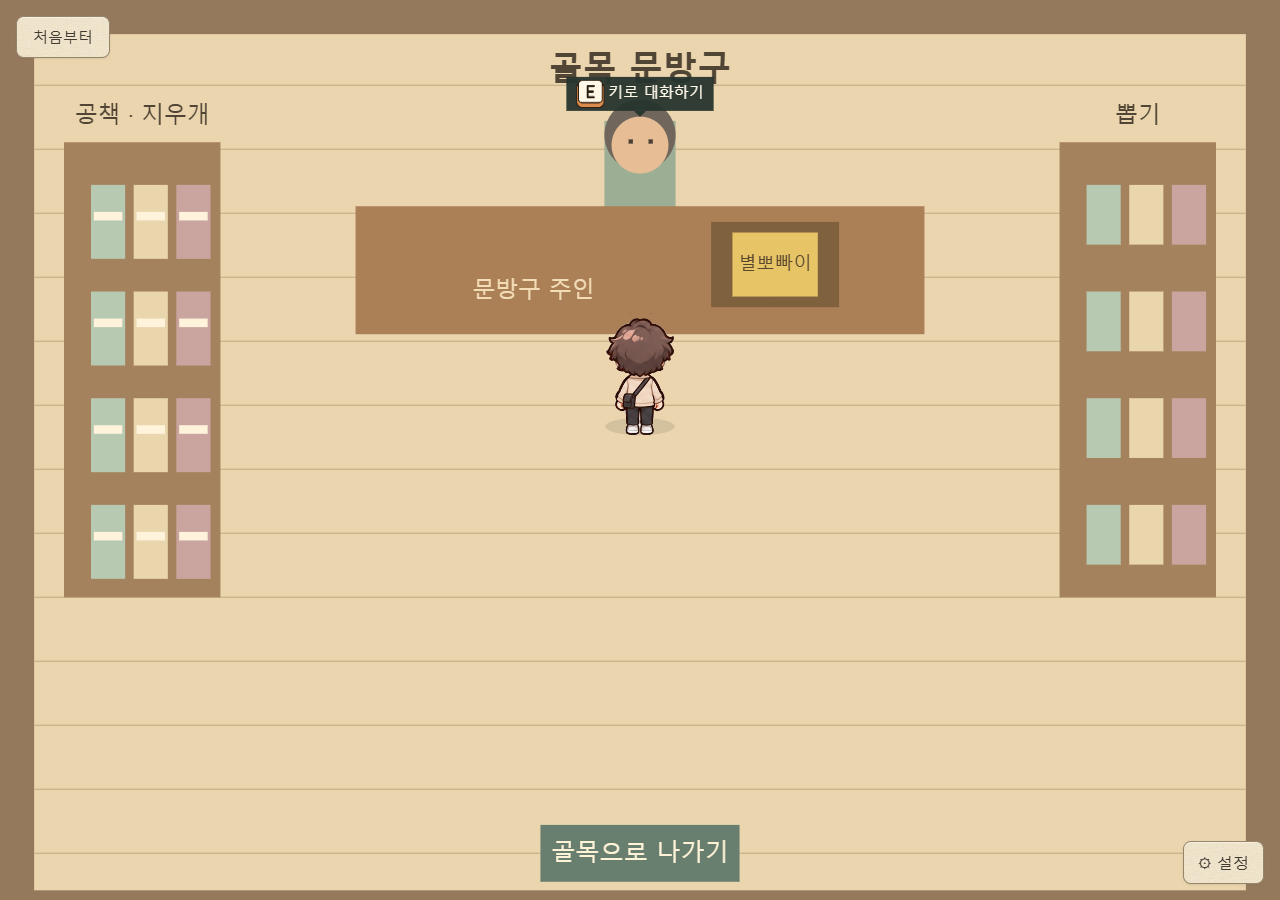
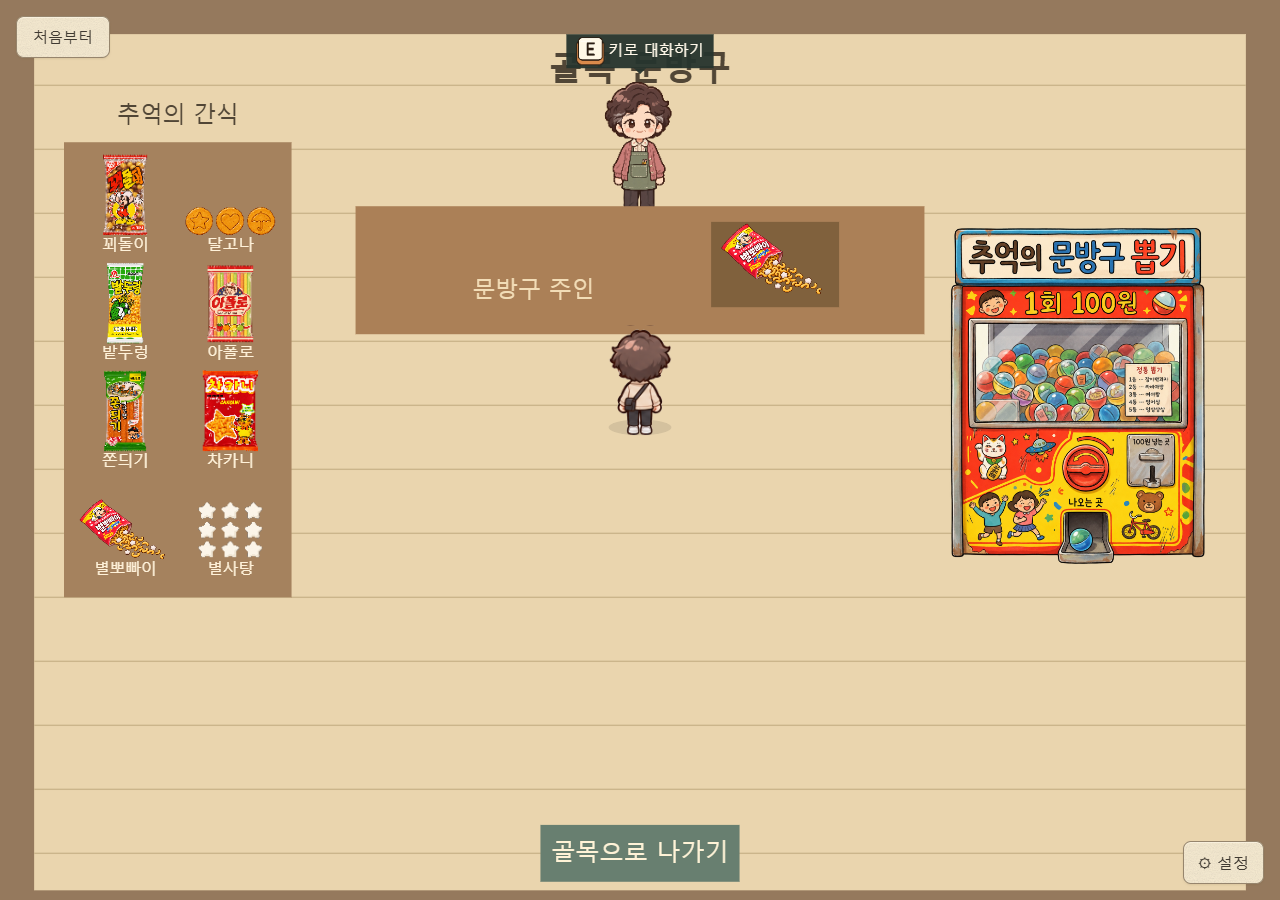
문방구 뽑기와 진열

diff --git a/easter-egg.js b/easter-egg.js
@@ -45,6 +45,12 @@ function updateEasterEgg() {
 function handleEasterClick(x, y) {
   if (!inEasterShop()) return false;
   const d = EASTER_EGG_DATA;
+  const machine = d.shelves.find(shelf => shelf.kind === "draw");
+  if (machine && insideRect(x, y, machine, d.clickPadding)) {
+    if (!nearFortuneMachine()) showDoorMessage(d.text.tooFar);
+    else if (!isGameInputBlocked()) openInspection({ type: "fortune", name: FORTUNE_DATA.title, fortune: drawFortune() });
+    return true;
+  }
   const snack = insideRect(x, y, d.snack, d.clickPadding);
   if (!snack && !insideRect(x, y, d.counter) && !insideRect(x, y, d.owner, d.clickPadding)) return false;
   if (!nearEasterShop()) { showDoorMessage(d.text.tooFar); return true; }
@@ -71,12 +77,18 @@ function drawEasterInterior() {
   ctx.textAlign = "center";ctx.textBaseline = "middle";ctx.font = "bold 24px 'Malgun Gothic', sans-serif";
   ctx.fillStyle = "#514636";ctx.fillText(d.text.shop,room.width/2,50);
   for(const shelf of d.shelves) {
+    if (shelf.sprite && drawObjectSprite(shelf)) continue;
     rect(shelf,"#a5825e");
     ctx.fillStyle="#514636";ctx.font="16px 'Malgun Gothic', sans-serif";ctx.fillText(d.text[shelf.kind],shelf.x,shelf.y-shelf.height/2-18);
-    for(let row=0;row<4;row++) for(let col=0;col<3;col++) {
-      const x=shelf.x-36+col*30, y=shelf.y-130+row*75;
-      ctx.fillStyle=["#b8c9b2","#ead6ad","#caa5a0"][col];ctx.fillRect(x,y,24,shelf.kind==="draw"?42:52);
-      if(shelf.kind==="stationery") {ctx.fillStyle="#fff3db";ctx.fillRect(x+2,y+19,20,6);}
+    if (shelf.kind === "stationery") {
+      const layout = d.shelfDisplay;
+      d.shelfSnacks.forEach((snack, index) => {
+        const x = shelf.x + (index % layout.columns - (layout.columns - 1) / 2) * layout.cellWidth;
+        const y = shelf.y - shelf.height / 2 + 37 + Math.floor(index / layout.columns) * layout.rowHeight;
+        drawObjectSprite({ x, y, width: layout.width, height: layout.height, sprite: { src: snack.src } });
+        ctx.fillStyle = "#fff2da"; ctx.font = "11px 'Malgun Gothic', sans-serif";
+        ctx.fillText(snack.name, x, y + layout.height / 2 + 6);
+      });
     }
   }
   // 주인 이미지를 판매대 뒤에 그린다. 불러오지 못했을 때만 임시 도형을 쓴다.
@@ -97,6 +109,41 @@ function drawEasterInterior() {
   ctx.fillText(d.text.exit,d.interior.exit.x,d.interior.exit.y);
   ctx.restore();
 }
+
+function nearFortuneMachine() {
+  if (!inEasterShop()) return false;
+  const r = EASTER_EGG_DATA.shelves.find(shelf => shelf.kind === "draw");
+  return !!r && Math.hypot(Math.max(0, Math.abs(player.x - r.x) - r.width / 2),
+    Math.max(0, Math.abs(player.y + player.footOffset - r.y) - r.height / 2)) <= FORTUNE_DATA.interactDistance;
+}
+
+function drawFortune() {
+  return FORTUNE_DATA.entries[Math.floor(Math.random() * FORTUNE_DATA.entries.length)];
+}
+
+function renderFortunePanel() {
+  const panel = document.getElementById("fortune-panel");
+  panel.hidden = inspectionUiState.mode !== "fortune";
+  if (panel.hidden) return;
+  const fortune = inspectionUiState.object.fortune;
+  inspectionMessage.textContent = "";
+  document.getElementById("fortune-quote").textContent = `“${fortune.quote}”`;
+  document.getElementById("fortune-author").textContent = `— ${fortune.author}`;
+  document.querySelector("#fortune-again .fortune-crank-label").textContent = FORTUNE_DATA.again;
+}
+
+document.getElementById("fortune-again").addEventListener("click", () => {
+  if (inspectionUiState.mode !== "fortune" || settingsUi.open) return;
+  const grip = document.querySelector("#fortune-again .fortune-crank-grip");
+  // 연속으로 눌러도 회전 효과가 쌓이지 않도록 이전 효과를 끝낸다.
+  grip.getAnimations().forEach(animation => animation.cancel());
+  if (!window.matchMedia("(prefers-reduced-motion: reduce)").matches) {
+    grip.animate([{ transform: "rotate(0deg)" }, { transform: "rotate(360deg)" }],
+      { duration: FORTUNE_DATA.turnDurationMs, easing: "ease-in-out" });
+  }
+  inspectionUiState.object.fortune = drawFortune();
+  renderFortunePanel();
+});
 
 function renderEasterPanel() {
   const panel = document.getElementById("easter-snack-panel"), d = EASTER_EGG_DATA;

diff --git a/style.css b/style.css
@@ -196,3 +196,52 @@ dialog button, dialog input, dialog select { font-family: inherit; }
 .snack-star-shape { position: absolute; inset: 9px; background: #fff4c1; clip-path: polygon(50% 0, 63% 32%, 98% 35%, 73% 59%, 80% 96%, 50% 78%, 20% 96%, 27% 59%, 2% 35%, 37% 32%); }
 .snack-star-glow { position: absolute; inset: -12px; width: 72px; height: 72px; object-fit: contain; opacity: 0; pointer-events: none; }
 .snack-star:focus-visible { outline: 3px solid #45675c; outline-offset: 2px; }
+#fortune-panel { text-align: center; padding: 12px 0; }
+#fortune-quote { margin: 12px 0; padding: 24px; border: 1px solid #b9a279; border-radius: 8px; background: #fff7e6; font-size: 20px; line-height: 1.9; white-space: pre-line; word-break: keep-all; overflow-wrap: anywhere; }
+#fortune-author { text-align: right; margin: 16px 8px 24px; }
+#inspection-dialog #fortune-again { display: inline-flex; flex-direction: column; align-items: center; gap: 10px; padding: 8px 18px; border: 0; border-radius: 18px; background: transparent; box-shadow: none; color: #604a39; font: inherit; cursor: pointer; }
+.fortune-crank { position: relative; display: block; width: 88px; height: 88px; border: 4px solid #8c7860; border-radius: 50%; background: radial-gradient(circle at 35% 25%, #fff8df, #c5b899 65%, #9b8b70); box-shadow: inset 0 0 0 5px #f3e6c4, inset 0 0 0 7px #a59275, 0 4px 0 #77624c, 0 6px 10px #55402e30; }
+.fortune-crank::before { content: "↻"; position: absolute; top: 1px; left: 0; right: 0; font: bold 23px Georgia, serif; color: #80684d; }
+.fortune-crank-grip { position: absolute; inset: 0; }
+.fortune-crank-grip::before { content: ""; position: absolute; width: 66px; height: 23px; left: 50%; top: 50%; transform: translate(-50%, -50%) rotate(-25deg); border: 2px solid #754e39; border-radius: 9px; background: linear-gradient(#e1a27d, #ba7453 55%, #925539); box-shadow: inset 0 2px 1px #ffe4b6a6, 0 4px 3px #68513d55; }
+.fortune-crank-grip::after { content: ""; position: absolute; inset: 36px; border: 1px solid #806950; border-radius: 50%; background: radial-gradient(circle at 35% 25%, #fff3d3, #ae9874); }
+#fortune-again:hover .fortune-crank { filter: brightness(1.06); }
+.fortune-crank-label { font-size: 15px; }
+#fortune-again:focus-visible { outline: 3px solid #45675c; outline-offset: 3px; }
+
+/* 명언 창만 오래된 뽑기 캡슐과 안쪽 종이 쪽지처럼 표현한다. */
+#inspection-dialog[data-mode="fortune"] {
+  box-sizing: border-box;
+  width: min(960px, calc(100vw - 32px));
+  padding: 32px 44px;
+  border: 3px solid #8d7561;
+  border-radius: 100px;
+  background: radial-gradient(ellipse at 28% 0%, #ffffffa6, transparent 55%),
+    linear-gradient(to bottom, #dfebe2 0%, #b9cec2 49%, #8d7561 49%, #8d7561 50%, #cb8d74 50%, #b97560 100%);
+  box-shadow: inset 0 0 0 7px #fff5df45, inset 0 -12px 24px #754c3729, 0 16px 48px #17201766;
+}
+#inspection-dialog[data-mode="fortune"] #inspection-message { display: none; }
+#inspection-dialog[data-mode="fortune"] #fortune-panel {
+  margin-top: 24px;
+  padding: 0;
+}
+#inspection-dialog[data-mode="fortune"] .fortune-paper {
+  margin-bottom: 16px;
+  padding: 12px 28px;
+  border: 1px solid #bca17b;
+  border-radius: 5px;
+  background: linear-gradient(#fff8e6c9, #f5e6c9c9), var(--paper-noise);
+  box-shadow: 0 4px 12px #5a382d30, inset 0 0 24px #c5a26820;
+}
+#inspection-dialog[data-mode="fortune"] #fortune-quote {
+  padding: 8px 0;
+  border: 0;
+  background: transparent;
+  font-size: 22px;
+  line-height: 1.9;
+}
+@media (max-width: 640px) {
+  #inspection-dialog[data-mode="fortune"] { padding: 24px 18px; border-radius: 40px; }
+  #inspection-dialog[data-mode="fortune"] .fortune-paper { padding: 12px 16px; }
+  #inspection-dialog[data-mode="fortune"] #fortune-quote { font-size: 18px; }
+}

diff --git a/data/easter-egg.js b/data/easter-egg.js
@@ -14,8 +14,21 @@ const EASTER_EGG_DATA = {
   snack: { x: 545, y: 186, width: 60, height: 45,
     sprite: { src: "assets/item-star-snack.png", width: 78, height: 52 } },
   counter: { x: 450, y: 190, width: 400, height: 90 },
-  shelves: [{ x: 100, y: 260, width: 110, height: 320, kind: "stationery" },
-    { x: 800, y: 260, width: 110, height: 320, kind: "draw" }],
+  shelves: [{ x: 125, y: 260, width: 160, height: 320, kind: "stationery" },
+    { x: 760, y: 260, width: 210, height: 280, kind: "draw",
+      sprite: { src: "assets/stationery-capsule-machine.png" } }],
+  // 진열용 간식 그림. 획득 가능한 별뽀빠이는 기존 판매대에 따로 둔다.
+  shelfDisplay: { columns: 2, cellWidth: 74, rowHeight: 76, width: 66, height: 59 },
+  shelfSnacks: [
+    { name: "꾀돌이", src: "assets/snack-kkoedori.png" },
+    { name: "달고나", src: "assets/snack-dalgona.png" },
+    { name: "밭두렁", src: "assets/snack-corn.png" },
+    { name: "아폴로", src: "assets/snack-apollo.png" },
+    { name: "쫀듸기", src: "assets/snack-jjondigi.png" },
+    { name: "차카니", src: "assets/snack-chakani.png" },
+    { name: "별뽀빠이", src: "assets/item-star-snack.png" },
+    { name: "별사탕", src: "assets/snack-star-candy.png" },
+  ],
   interactDistance: 190, clickPadding: 12,
   // TODO: 봉지 안 배치는 백분율 좌표다. 최종 간식 그림으로 교체할 수 있다.
   crumbs: Array.from({ length: 54 }, (_, i) => ({ x: 5 + i % 9 * 10 + Math.sin(i * 3) * 2,
@@ -25,7 +38,7 @@ const EASTER_EGG_DATA = {
   sparkleMs: 1100, sparkleImage: "assets/guide-star.png",
   text: {
     shop: "골목 문방구", owner: "문방구 주인", snack: "별뽀빠이", draw: "뽑기",
-    stationery: "공책 · 지우개", exit: "골목으로 나가기", exitHint: "출입구까지 걸어가면 나갑니다.",
+    stationery: "추억의 간식", exit: "골목으로 나가기", exitHint: "출입구까지 걸어가면 나갑니다.",
     purpose: "골목 문방구에서 받은 기념품", star: "별사탕",
     dialogue: ["어머, 너 오랜만이다. 잘 지냈어?", "넌 이거 사면 꼭 별사탕부터 골라 먹었잖아.",
       "봉지 안에 별이 몇 개 들었나 한참 들여다보고.", "하나 가져가. 오늘은 별이 좀 많이 들었으려나."],

diff --git a/data/fortunes.js b/data/fortunes.js
@@ -1,0 +1,20 @@
+"use strict";
+
+// 문구와 출처 표기는 사용자가 제공한 목록을 따른다.
+const FORTUNE_DATA = {
+  title: "오늘의 한마디", again: "다시 뽑기",
+  // TODO: 뽑기 기계 조사 거리는 실내 픽셀 단위다.
+  interactDistance: 160,
+  turnDurationMs: 550,
+  entries: [
+    { id: "FORTUNE-01", quote: "매일 행복하진 않지만, 행복한 일은 매일 있어.", author: "곰돌이 푸" },
+    { id: "FORTUNE-02", quote: "넌 네가 믿는 것보다 더 용감하고,\n네가 보는 것보다 더 강하며,\n네가 생각하는 것보다 더 똑똑하단다.", author: "곰돌이 푸" },
+    { id: "FORTUNE-03", quote: "가장 중요한 것은 눈에 보이지 않아.\n마음으로 봐야 잘 보이거든.", author: "어린 왕자" },
+    { id: "FORTUNE-04", quote: "어른들은 누구나 처음엔 어린이였다.\n하지만 그것을 기억하는 어른은 별로 없다.", author: "어린 왕자" },
+    { id: "FORTUNE-05", quote: "강물은 서두르지 않아.\n언젠가는 도착할 거라는 걸 알거든.", author: "곰돌이 푸" },
+    { id: "FORTUNE-06", quote: "인생은 폭풍우가 지나가기를 기다리는 것이 아니라,\n빗속에서 춤추는 법을 배우는 것이다.", author: "스누피" },
+    { id: "FORTUNE-07", quote: "걱정한다고 해서 내일의 슬픔이 사라지는 건 아니야.\n오늘의 힘만 뺄 뿐이지.", author: "스누피" },
+    { id: "FORTUNE-08", quote: "헛된 일이란 건 정말로 없는 걸까?\n응, 헛된 일은 없어.\n그저 헛되다고 생각하는 것뿐이야.", author: "보노보노" },
+    { id: "FORTUNE-09", quote: "가끔은 아주 작은 것들이 네 마음속에서 가장 큰 자리를 차지하기도 해.", author: "피글렛" },
+  ],
+};

diff --git a/index.html b/index.html
@@ -16,6 +16,7 @@
     <script src="school.js" defer></script>
     <script src="data/items.js" defer></script>
     <script src="data/easter-egg.js" defer></script>
+    <script src="data/fortunes.js" defer></script>
     <script src="data/ordinary-items.js" defer></script>
     <script src="data/cabinet.js" defer></script>
     <script src="cabinet.js" defer></script>
@@ -138,6 +139,13 @@
         </div>
       </section>
       <div id="easter-snack-panel" hidden></div>
+      <section id="fortune-panel" hidden>
+        <div class="fortune-paper">
+          <blockquote id="fortune-quote"></blockquote>
+          <p id="fortune-author"></p>
+        </div>
+        <button id="fortune-again" type="button"><span class="fortune-crank" aria-hidden="true"><span class="fortune-crank-grip"></span></span><span class="fortune-crank-label"></span></button>
+      </section>
       <div id="playground-memo" hidden>
         <img id="home-memo-picture" alt="집의 잠긴 정문과 옆 골목의 쪽문 약도" />
       </div>

diff --git a/studio-ui.js b/studio-ui.js
@@ -133,6 +133,7 @@ function renderInspection() {
   renderCabinetPanel();
   renderDiaryPanel();
   if (typeof renderEasterPanel === "function") renderEasterPanel();
+  if (typeof renderFortunePanel === "function") renderFortunePanel();
   if (typeof recordInspectionHint === "function") recordInspectionHint();
 }
 
